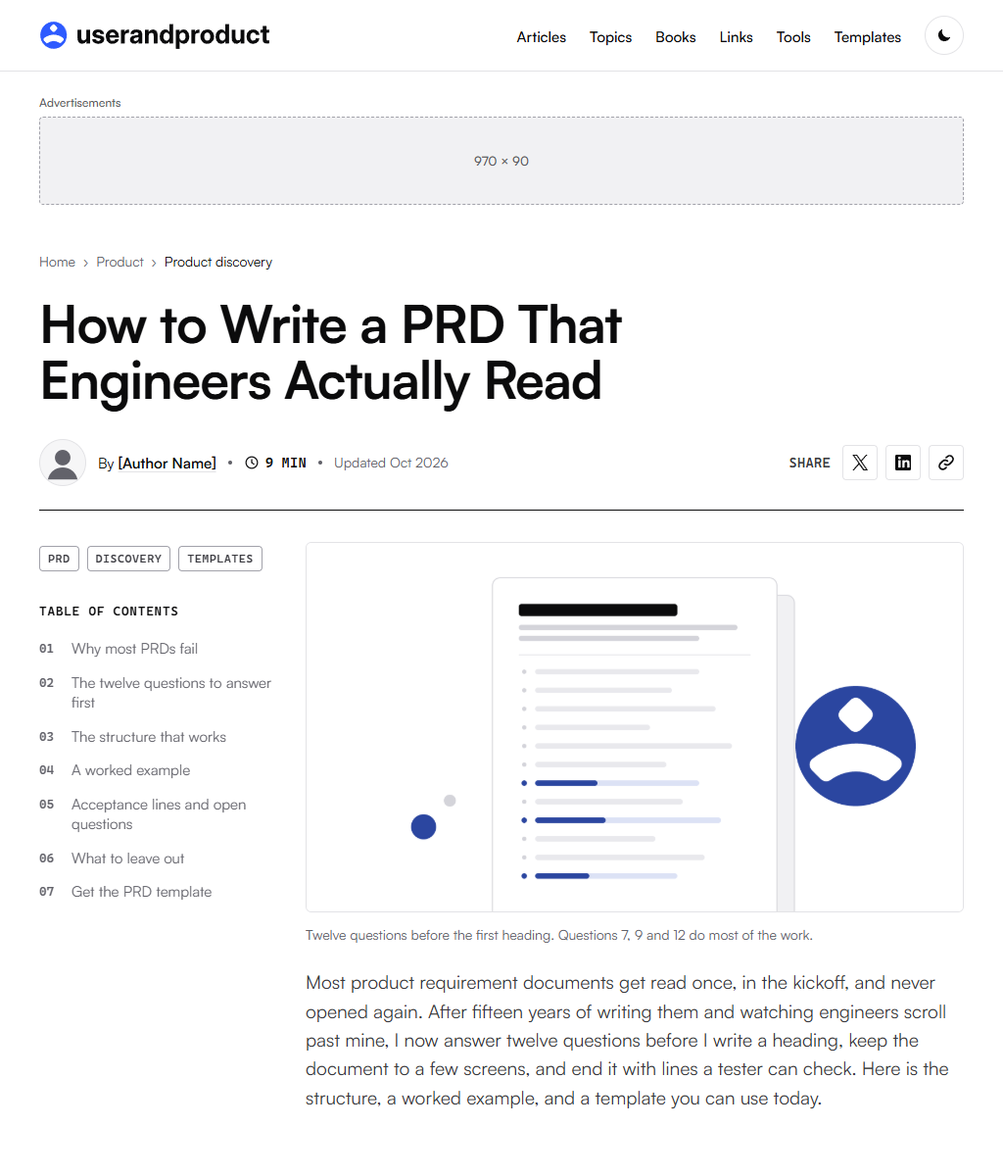
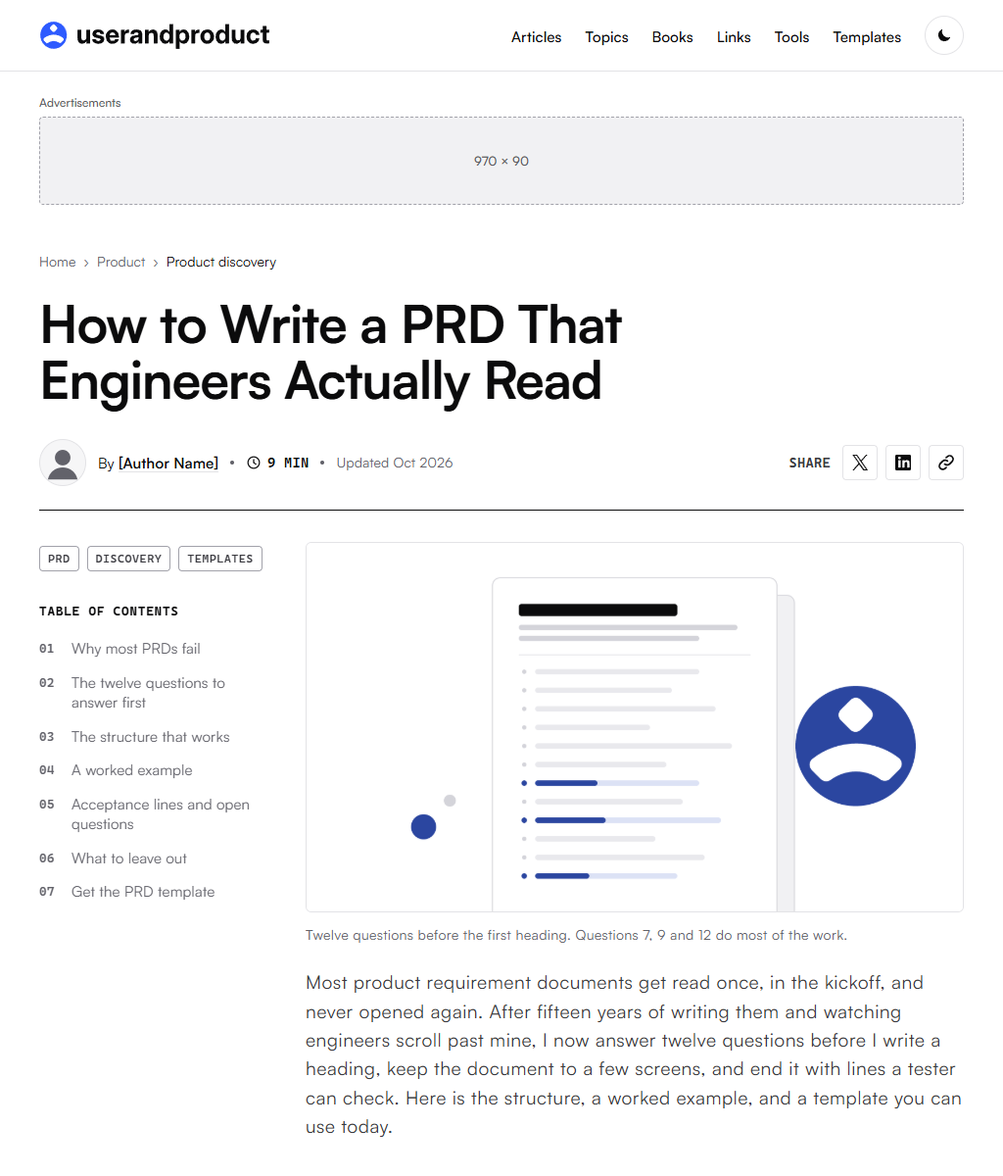
Mockup type: bolder small headings and labels, body letter spacing for Satoshi

diff --git a/research/mockups/mockup.css b/research/mockups/mockup.css
@@ -47,6 +47,15 @@
   --fs-meta:14px; --fs-ui:15px; --fs-body:18px; --fs-lead:21px;
   --fs-h3:21px; --fs-h2:30px; --fs-h1:52px;
   --lh-body:1.6;
+  /* weights: Satoshi is light for its size, so small headings and labels sit higher than large ones */
+  --fw-h1:700; --fw-h2:700;  /* large headings: unchanged */
+  --fw-h3:750;               /* h3, card and block titles, small h2s */
+  --fw-label:700;            /* section labels: contents, "More in", "Just published", footer heads */
+  /* tracking: Satoshi sets tight. Running text (paragraphs, list items, decks, captions) opens by .03em;
+     tested .01, .02, .03 and .05em at 18px: .05 reads spaced out and costs a line per paragraph, .03 opens it.
+     UI text at 13 to 15px takes a lighter .01em. Headings keep their own (negative) tracking. */
+  --tracking-body:.03em;
+  --tracking-ui:.01em;
 
   /* spacing, 4px base */
   --s1:4px; --s2:8px; --s3:12px; --s4:16px; --s5:24px; --s6:32px; --s7:48px; --s8:64px; --s9:96px;
@@ -82,7 +91,8 @@ img,svg{max-width:100%;height:auto}
 a{color:var(--signal);text-decoration-thickness:1px;text-underline-offset:.18em}
 a:hover{text-decoration-thickness:2px}
 :focus-visible{outline:2px solid var(--focus);outline-offset:3px;border-radius:2px}
-h1,h2,h3,h4{font-family:var(--font-display);font-weight:700;color:var(--ink);margin:0;text-wrap:balance}
+h1,h2,h3,h4{font-family:var(--font-display);font-weight:var(--fw-h3);color:var(--ink);margin:0;text-wrap:balance}
+h1{font-weight:var(--fw-h1)} h2{font-weight:var(--fw-h2)}
 p{margin:0}
 button,input{font:inherit;color:inherit}
 @media (prefers-reduced-motion:reduce){html{scroll-behavior:auto}*{transition:none!important;animation:none!important}}
@@ -106,7 +116,7 @@ button,input{font:inherit;color:inherit}
 @media (min-width:768px){.site-head .logo{--logo-w:236px}.site-head__in{min-height:72px;padding-top:16px;padding-bottom:16px}}
 .site-nav{margin-left:auto}
 .site-nav ul{display:flex;gap:var(--s5);list-style:none;margin:0;padding:0}
-.site-nav a{color:var(--ink);text-decoration:none;font:500 var(--fs-ui)/1 var(--font-ui)}
+.site-nav a{color:var(--ink);text-decoration:none;font:500 var(--fs-ui)/1 var(--font-ui);letter-spacing:var(--tracking-ui)}
 .site-nav a:hover{color:var(--signal)}
 .menu{margin-left:auto;position:relative}
 .menu summary{list-style:none;cursor:pointer;font:500 var(--fs-ui)/1 var(--font-ui);padding:12px 14px;border:1px solid var(--rule);border-radius:var(--radius)}
@@ -121,7 +131,7 @@ button,input{font:inherit;color:inherit}
 @media (min-width:900px){.menu{display:none}}
 
 /* ---------- Breadcrumb ---------- */
-.crumbs ol{display:flex;flex-wrap:wrap;gap:var(--s2);list-style:none;margin:0;padding:0;font:400 var(--fs-meta)/1.4 var(--font-ui);color:var(--ink-3)}
+.crumbs ol{display:flex;flex-wrap:wrap;gap:var(--s2);list-style:none;margin:0;padding:0;font:400 var(--fs-meta)/1.4 var(--font-ui);letter-spacing:var(--tracking-ui);color:var(--ink-3)}
 .crumbs li+li::before{content:"\203A";margin-right:var(--s2);color:var(--ink-3)}
 .crumbs a{color:var(--ink-3);text-decoration:none}
 .crumbs a:hover{color:var(--signal);text-decoration:underline}
@@ -138,10 +148,11 @@ button,input{font:inherit;color:inherit}
 /* ---------- Article prose ---------- */
 .prose>*+*{margin-top:1.1em}
 .prose h2{font-size:var(--fs-h2);line-height:1.18;letter-spacing:-.02em;margin-top:2.2em;scroll-margin-top:24px}
-.prose h3{font-weight:600;font-size:var(--fs-h3);line-height:1.3;letter-spacing:-.01em;margin-top:1.8em;scroll-margin-top:24px}
+.prose h3{font-weight:var(--fw-h3);font-size:var(--fs-h3);line-height:1.3;letter-spacing:-.01em;margin-top:1.8em;scroll-margin-top:24px}
 .prose h2+*,.prose h3+*{margin-top:.6em}
 .prose ul,.prose ol{padding-left:1.25em}
 .prose li+li{margin-top:.45em}
+.prose p,.prose li{letter-spacing:var(--tracking-body)}
 .prose li::marker{color:var(--signal)}
 .prose strong{font-weight:600}
 
@@ -151,7 +162,7 @@ button,input{font:inherit;color:inherit}
 
 .fig{margin:2em 0}
 .fig svg{display:block;width:100%;max-width:480px;height:auto;margin:0 auto;color:var(--ink)}
-.fig figcaption{margin-top:var(--s3);font:400 var(--fs-meta)/1.5 var(--font-ui);color:var(--ink-3)}
+.fig figcaption{margin-top:var(--s3);font:400 var(--fs-meta)/1.5 var(--font-ui);letter-spacing:var(--tracking-body);color:var(--ink-3)}
 .fig figcaption b{font-weight:600;color:var(--ink-2)}
 .fig .frame{padding:var(--s5) var(--s4);background:var(--panel);border-radius:var(--radius)}
 @media (max-width:599px){.fig .frame{padding:var(--s4) var(--s2)}}
@@ -164,7 +175,7 @@ button,input{font:inherit;color:inherit}
 
 .qtable-wrap{margin:1.6em 0}
 .qtable{width:100%;border-collapse:collapse;font:400 16px/1.45 var(--font-ui)}
-.qtable caption{caption-side:bottom;text-align:left;margin-top:var(--s3);font-size:var(--fs-meta);color:var(--ink-3)}
+.qtable caption{caption-side:bottom;text-align:left;margin-top:var(--s3);font-size:var(--fs-meta);letter-spacing:var(--tracking-body);color:var(--ink-3)}
 .qtable th{font-weight:600;font-size:var(--fs-meta);color:var(--ink-3);text-align:left;padding:0 var(--s3) var(--s2) 0;border-bottom:1px solid var(--rule-strong)}
 .qtable td{padding:var(--s3) var(--s3) var(--s3) 0;border-bottom:1px solid var(--rule);vertical-align:top}
 .qtable td:first-child{font-variant-numeric:tabular-nums;color:var(--signal);font-weight:600;width:2.2em}
@@ -180,7 +191,7 @@ button,input{font:inherit;color:inherit}
 }
 
 .excerpt{margin:1.6em 0;border:1px solid var(--rule);border-left:3px solid var(--signal);border-radius:0 var(--radius) var(--radius) 0;padding:var(--s5);font:400 16px/1.55 var(--font-ui);background:var(--paper)}
-.excerpt .ex-title{margin:0 0 var(--s3);font:600 17px/1.3 var(--font-display);color:var(--ink)}
+.excerpt .ex-title{margin:0 0 var(--s3);font:var(--fw-h3) 17px/1.3 var(--font-display);color:var(--ink)}
 .excerpt dl{margin:0;display:grid;grid-template-columns:8.5em 1fr;gap:var(--s3) var(--s4)}
 .excerpt dt{font-weight:600;color:var(--ink)}
 .excerpt dd{margin:0;color:var(--ink-2)}
@@ -204,7 +215,7 @@ button,input{font:inherit;color:inherit}
 .btn-row{display:flex;flex-wrap:wrap;gap:var(--s2)}
 .tpl__part .btn-row{margin-top:var(--s1)}
 .before{padding:var(--s3) var(--s4);border:1px dashed var(--ad-line);border-radius:var(--radius);font-size:var(--fs-meta);line-height:1.5;color:var(--ink-2)}
-.before h4{margin:0 0 var(--s1);font:600 var(--fs-meta)/1.4 var(--font-ui);color:var(--ink)}
+.before h4{margin:0 0 var(--s1);font:var(--fw-label) var(--fs-meta)/1.4 var(--font-ui);color:var(--ink)}
 .before ul{margin:0;padding-left:1.1em}
 .before li+li{margin-top:var(--s1)}
 .copy-status{font-size:var(--fs-meta);color:var(--signal);min-height:1.4em;margin:0}
@@ -212,13 +223,13 @@ button,input{font:inherit;color:inherit}
 /* ---------- Author box ---------- */
 .author{display:grid;grid-template-columns:64px 1fr;gap:var(--s4);margin-top:var(--s8);padding-top:var(--s5);border-top:1px solid var(--rule-strong);font:400 var(--fs-ui)/1.55 var(--font-ui)}
 .author .avatar{width:64px;height:64px}
-.author h2{font-size:20px;letter-spacing:-.01em}
+.author h2{font-size:20px;font-weight:var(--fw-h3);letter-spacing:-.01em}
 .author p{margin-top:var(--s2);color:var(--ink-2)}
 .author .links{display:flex;flex-wrap:wrap;gap:var(--s4);margin-top:var(--s3)}
 
 /* ---------- Related ---------- */
 .related{margin-top:var(--s8)}
-.related>h2{font-size:22px;letter-spacing:-.01em;padding-bottom:var(--s3);border-bottom:1px solid var(--rule-strong)}
+.related>h2{font-size:22px;font-weight:var(--fw-h3);letter-spacing:-.01em;padding-bottom:var(--s3);border-bottom:1px solid var(--rule-strong)}
 .related ul{list-style:none;margin:0;padding:0;display:grid;gap:0 var(--s6);grid-template-columns:1fr}
 @media (min-width:760px){.related ul{grid-template-columns:repeat(3,1fr)}}
 .related li{padding:var(--s4) 0;border-bottom:1px solid var(--rule)}
@@ -252,11 +263,11 @@ a.chip:hover{color:var(--signal);border-color:var(--signal)}
 
 /* ---------- Footer ---------- */
 .site-foot{margin-top:var(--s9);border-top:1px solid var(--rule);background:var(--paper)}
-.site-foot__in{max-width:var(--frame,1280px);margin:0 auto;padding:var(--s7) var(--gutter) var(--s6);display:grid;gap:var(--s6);grid-template-columns:1fr 1fr;font:400 var(--fs-ui)/1.5 var(--font-ui)}
+.site-foot__in{max-width:var(--frame,1280px);margin:0 auto;padding:var(--s7) var(--gutter) var(--s6);display:grid;gap:var(--s6);grid-template-columns:1fr 1fr;font:400 var(--fs-ui)/1.5 var(--font-ui);letter-spacing:var(--tracking-ui)}
 .site-foot__brand{grid-column:1/-1}
 @media (min-width:760px){.site-foot__in{grid-template-columns:2fr 1fr 1fr}.site-foot__brand{grid-column:auto}}
 .site-foot p{color:var(--ink-2);margin-top:var(--s3);max-width:34ch}
-.site-foot h2{font:600 var(--fs-meta)/1.4 var(--font-ui);color:var(--ink-3);margin:0 0 var(--s2)}
+.site-foot h2{font:var(--fw-label) var(--fs-meta)/1.4 var(--font-ui);color:var(--ink-3);margin:0 0 var(--s2)}
 .site-foot ul{list-style:none;margin:0;padding:0}
 .site-foot li{padding:3px 0}
 .site-foot a{color:var(--ink);text-decoration:none}

diff --git a/research/mockups/option-1/css/mockup.css b/research/mockups/option-1/css/mockup.css
@@ -46,6 +46,15 @@
   --fs-meta:14px; --fs-ui:15px; --fs-body:18px; --fs-lead:21px;
   --fs-h3:21px; --fs-h2:30px; --fs-h1:52px;
   --lh-body:1.6;
+  /* weights: Satoshi is light for its size, so small headings and labels sit higher than large ones */
+  --fw-h1:700; --fw-h2:700;  /* large headings: unchanged */
+  --fw-h3:750;               /* h3, card and block titles, small h2s */
+  --fw-label:700;            /* section labels: contents, "More in", "Just published", footer heads */
+  /* tracking: Satoshi sets tight. Running text (paragraphs, list items, decks, captions) opens by .03em;
+     tested .01, .02, .03 and .05em at 18px: .05 reads spaced out and costs a line per paragraph, .03 opens it.
+     UI text at 13 to 15px takes a lighter .01em. Headings keep their own (negative) tracking. */
+  --tracking-body:.03em;
+  --tracking-ui:.01em;
 
   /* spacing, 4px base */
   --s1:4px; --s2:8px; --s3:12px; --s4:16px; --s5:24px; --s6:32px; --s7:48px; --s8:64px; --s9:96px;
@@ -81,7 +90,8 @@ img,svg{max-width:100%;height:auto}
 a{color:var(--signal);text-decoration-thickness:1px;text-underline-offset:.18em}
 a:hover{text-decoration-thickness:2px}
 :focus-visible{outline:2px solid var(--focus);outline-offset:3px;border-radius:2px}
-h1,h2,h3,h4{font-family:var(--font-display);font-weight:700;color:var(--ink);margin:0;text-wrap:balance}
+h1,h2,h3,h4{font-family:var(--font-display);font-weight:var(--fw-h3);color:var(--ink);margin:0;text-wrap:balance}
+h1{font-weight:var(--fw-h1)} h2{font-weight:var(--fw-h2)}
 p{margin:0}
 button,input{font:inherit;color:inherit}
 @media (prefers-reduced-motion:reduce){html{scroll-behavior:auto}*{transition:none!important;animation:none!important}}
@@ -105,7 +115,7 @@ button,input{font:inherit;color:inherit}
 @media (min-width:768px){.site-head .logo{--logo-w:236px}.site-head__in{min-height:72px;padding-top:16px;padding-bottom:16px}}
 .site-nav{margin-left:auto}
 .site-nav ul{display:flex;gap:var(--s5);list-style:none;margin:0;padding:0}
-.site-nav a{color:var(--ink);text-decoration:none;font:500 var(--fs-ui)/1 var(--font-ui)}
+.site-nav a{color:var(--ink);text-decoration:none;font:500 var(--fs-ui)/1 var(--font-ui);letter-spacing:var(--tracking-ui)}
 .site-nav a:hover{color:var(--signal)}
 .menu{margin-left:auto;position:relative}
 .menu summary{list-style:none;cursor:pointer;font:500 var(--fs-ui)/1 var(--font-ui);padding:12px 14px;border:1px solid var(--rule);border-radius:var(--radius)}
@@ -120,7 +130,7 @@ button,input{font:inherit;color:inherit}
 @media (min-width:900px){.menu{display:none}}
 
 /* ---------- Breadcrumb ---------- */
-.crumbs ol{display:flex;flex-wrap:wrap;gap:var(--s2);list-style:none;margin:0;padding:0;font:400 var(--fs-meta)/1.4 var(--font-ui);color:var(--ink-3)}
+.crumbs ol{display:flex;flex-wrap:wrap;gap:var(--s2);list-style:none;margin:0;padding:0;font:400 var(--fs-meta)/1.4 var(--font-ui);letter-spacing:var(--tracking-ui);color:var(--ink-3)}
 .crumbs li+li::before{content:"\203A";margin-right:var(--s2);color:var(--ink-3)}
 .crumbs a{color:var(--ink-3);text-decoration:none}
 .crumbs a:hover{color:var(--signal);text-decoration:underline}
@@ -137,10 +147,11 @@ button,input{font:inherit;color:inherit}
 /* ---------- Article prose ---------- */
 .prose>*+*{margin-top:1.1em}
 .prose h2{font-size:var(--fs-h2);line-height:1.18;letter-spacing:-.02em;margin-top:2.2em;scroll-margin-top:24px}
-.prose h3{font-weight:600;font-size:var(--fs-h3);line-height:1.3;letter-spacing:-.01em;margin-top:1.8em;scroll-margin-top:24px}
+.prose h3{font-weight:var(--fw-h3);font-size:var(--fs-h3);line-height:1.3;letter-spacing:-.01em;margin-top:1.8em;scroll-margin-top:24px}
 .prose h2+*,.prose h3+*{margin-top:.6em}
 .prose ul,.prose ol{padding-left:1.25em}
 .prose li+li{margin-top:.45em}
+.prose p,.prose li{letter-spacing:var(--tracking-body)}
 .prose li::marker{color:var(--signal)}
 .prose strong{font-weight:600}
 
@@ -150,7 +161,7 @@ button,input{font:inherit;color:inherit}
 
 .fig{margin:2em 0}
 .fig svg{display:block;width:100%;max-width:480px;height:auto;margin:0 auto;color:var(--ink)}
-.fig figcaption{margin-top:var(--s3);font:400 var(--fs-meta)/1.5 var(--font-ui);color:var(--ink-3)}
+.fig figcaption{margin-top:var(--s3);font:400 var(--fs-meta)/1.5 var(--font-ui);letter-spacing:var(--tracking-body);color:var(--ink-3)}
 .fig figcaption b{font-weight:600;color:var(--ink-2)}
 .fig .frame{padding:var(--s5) var(--s4);background:var(--panel);border-radius:var(--radius)}
 @media (max-width:599px){.fig .frame{padding:var(--s4) var(--s2)}}
@@ -163,7 +174,7 @@ button,input{font:inherit;color:inherit}
 
 .qtable-wrap{margin:1.6em 0}
 .qtable{width:100%;border-collapse:collapse;font:400 16px/1.45 var(--font-ui)}
-.qtable caption{caption-side:bottom;text-align:left;margin-top:var(--s3);font-size:var(--fs-meta);color:var(--ink-3)}
+.qtable caption{caption-side:bottom;text-align:left;margin-top:var(--s3);font-size:var(--fs-meta);letter-spacing:var(--tracking-body);color:var(--ink-3)}
 .qtable th{font-weight:600;font-size:var(--fs-meta);color:var(--ink-3);text-align:left;padding:0 var(--s3) var(--s2) 0;border-bottom:1px solid var(--rule-strong)}
 .qtable td{padding:var(--s3) var(--s3) var(--s3) 0;border-bottom:1px solid var(--rule);vertical-align:top}
 .qtable td:first-child{font-variant-numeric:tabular-nums;color:var(--signal);font-weight:600;width:2.2em}
@@ -179,7 +190,7 @@ button,input{font:inherit;color:inherit}
 }
 
 .excerpt{margin:1.6em 0;border:1px solid var(--rule);border-left:3px solid var(--signal);border-radius:0 var(--radius) var(--radius) 0;padding:var(--s5);font:400 16px/1.55 var(--font-ui);background:var(--paper)}
-.excerpt .ex-title{margin:0 0 var(--s3);font:600 17px/1.3 var(--font-display);color:var(--ink)}
+.excerpt .ex-title{margin:0 0 var(--s3);font:var(--fw-h3) 17px/1.3 var(--font-display);color:var(--ink)}
 .excerpt dl{margin:0;display:grid;grid-template-columns:8.5em 1fr;gap:var(--s3) var(--s4)}
 .excerpt dt{font-weight:600;color:var(--ink)}
 .excerpt dd{margin:0;color:var(--ink-2)}
@@ -203,7 +214,7 @@ button,input{font:inherit;color:inherit}
 .btn-row{display:flex;flex-wrap:wrap;gap:var(--s2)}
 .tpl__part .btn-row{margin-top:var(--s1)}
 .before{padding:var(--s3) var(--s4);border:1px dashed var(--ad-line);border-radius:var(--radius);font-size:var(--fs-meta);line-height:1.5;color:var(--ink-2)}
-.before h4{margin:0 0 var(--s1);font:600 var(--fs-meta)/1.4 var(--font-ui);color:var(--ink)}
+.before h4{margin:0 0 var(--s1);font:var(--fw-label) var(--fs-meta)/1.4 var(--font-ui);color:var(--ink)}
 .before ul{margin:0;padding-left:1.1em}
 .before li+li{margin-top:var(--s1)}
 .copy-status{font-size:var(--fs-meta);color:var(--signal);min-height:1.4em;margin:0}
@@ -211,13 +222,13 @@ button,input{font:inherit;color:inherit}
 /* ---------- Author box ---------- */
 .author{display:grid;grid-template-columns:64px 1fr;gap:var(--s4);margin-top:var(--s8);padding-top:var(--s5);border-top:1px solid var(--rule-strong);font:400 var(--fs-ui)/1.55 var(--font-ui)}
 .author .avatar{width:64px;height:64px}
-.author h2{font-size:20px;letter-spacing:-.01em}
+.author h2{font-size:20px;font-weight:var(--fw-h3);letter-spacing:-.01em}
 .author p{margin-top:var(--s2);color:var(--ink-2)}
 .author .links{display:flex;flex-wrap:wrap;gap:var(--s4);margin-top:var(--s3)}
 
 /* ---------- Related ---------- */
 .related{margin-top:var(--s8)}
-.related>h2{font-size:22px;letter-spacing:-.01em;padding-bottom:var(--s3);border-bottom:1px solid var(--rule-strong)}
+.related>h2{font-size:22px;font-weight:var(--fw-h3);letter-spacing:-.01em;padding-bottom:var(--s3);border-bottom:1px solid var(--rule-strong)}
 .related ul{list-style:none;margin:0;padding:0;display:grid;gap:0 var(--s6);grid-template-columns:1fr}
 @media (min-width:760px){.related ul{grid-template-columns:repeat(3,1fr)}}
 .related li{padding:var(--s4) 0;border-bottom:1px solid var(--rule)}
@@ -251,11 +262,11 @@ a.chip:hover{color:var(--signal);border-color:var(--signal)}
 
 /* ---------- Footer ---------- */
 .site-foot{margin-top:var(--s9);border-top:1px solid var(--rule);background:var(--paper)}
-.site-foot__in{max-width:var(--frame,1280px);margin:0 auto;padding:var(--s7) var(--gutter) var(--s6);display:grid;gap:var(--s6);grid-template-columns:1fr 1fr;font:400 var(--fs-ui)/1.5 var(--font-ui)}
+.site-foot__in{max-width:var(--frame,1280px);margin:0 auto;padding:var(--s7) var(--gutter) var(--s6);display:grid;gap:var(--s6);grid-template-columns:1fr 1fr;font:400 var(--fs-ui)/1.5 var(--font-ui);letter-spacing:var(--tracking-ui)}
 .site-foot__brand{grid-column:1/-1}
 @media (min-width:760px){.site-foot__in{grid-template-columns:2fr 1fr 1fr}.site-foot__brand{grid-column:auto}}
 .site-foot p{color:var(--ink-2);margin-top:var(--s3);max-width:34ch}
-.site-foot h2{font:600 var(--fs-meta)/1.4 var(--font-ui);color:var(--ink-3);margin:0 0 var(--s2)}
+.site-foot h2{font:var(--fw-label) var(--fs-meta)/1.4 var(--font-ui);color:var(--ink-3);margin:0 0 var(--s2)}
 .site-foot ul{list-style:none;margin:0;padding:0}
 .site-foot li{padding:3px 0}
 .site-foot a{color:var(--ink);text-decoration:none}

diff --git a/research/mockups/option-1/css/article.css b/research/mockups/option-1/css/article.css
@@ -8,7 +8,7 @@
 .page{margin:0 auto;padding:0 var(--gutter)}
 .cat-link{display:inline-block;font:600 var(--fs-ui)/1.3 var(--font-ui);color:var(--signal);text-decoration:none}
 .cat-link:hover{text-decoration:underline}
-.deck{font:400 var(--fs-lead)/1.5 var(--font-ui);color:var(--ink-2);text-wrap:pretty}
+.deck{font:400 var(--fs-lead)/1.5 var(--font-ui);letter-spacing:var(--tracking-body);color:var(--ink-2);text-wrap:pretty}
 .hero h1{font-size:var(--fs-h1);line-height:1.06;letter-spacing:-.03em}
 .hero>*+*{margin-top:var(--s4)}
 /* running text keeps a 65 to 75 character measure; figures, table and template use the full column */
@@ -17,9 +17,9 @@
 .hero .byline{margin-top:var(--s5)}
 
 /* table of contents (sidebar and inline) */
-.toc h2{font:600 var(--fs-meta)/1.4 var(--font-ui);color:var(--ink-3);margin:0 0 var(--s3)}
+.toc h2{font:var(--fw-label) var(--fs-meta)/1.4 var(--font-ui);color:var(--ink-3);margin:0 0 var(--s3)}
 .toc ol{list-style:none;margin:0;padding:0}
-.toc li a{position:relative;display:block;padding:7px 0 7px 22px;color:var(--ink-3);text-decoration:none;font:400 var(--fs-ui)/1.35 var(--font-ui)}
+.toc li a{position:relative;display:block;padding:7px 0 7px 22px;color:var(--ink-3);text-decoration:none;font:400 var(--fs-ui)/1.35 var(--font-ui);letter-spacing:var(--tracking-ui)}
 .toc li a:hover{color:var(--ink)}
 .toc li a::before{content:"";position:absolute;left:4px;top:13px;width:7px;height:7px;border-radius:1px;transform:rotate(45deg);background:var(--rule)}
 .toc li a[aria-current]{color:var(--ink);font-weight:600}
@@ -47,7 +47,7 @@
 .va .top h1{font-size:clamp(34px,calc(15.6px + 3.7vw),60px);line-height:1.08;letter-spacing:-.02em;text-wrap:balance}
 /* .chip and .chips live in ../mockup.css (shared with the home page) */
 .byrow{display:flex;flex-wrap:wrap;align-items:center;justify-content:space-between;gap:var(--s4) var(--s5);margin-top:var(--s6)!important}
-.by{display:flex;flex-wrap:wrap;align-items:center;gap:var(--s2) var(--s3);font:400 var(--fs-ui)/1.4 var(--font-ui);color:var(--ink)}
+.by{display:flex;flex-wrap:wrap;align-items:center;gap:var(--s2) var(--s3);font:400 var(--fs-ui)/1.4 var(--font-ui);letter-spacing:var(--tracking-ui);color:var(--ink)}
 .by .avatar{width:48px;height:48px}
 .by a{color:var(--ink);font-weight:600;text-decoration:underline;text-decoration-color:var(--rule);text-underline-offset:.2em}
 .by a:hover{color:var(--signal);text-decoration-color:currentColor}
@@ -59,7 +59,7 @@
 /* copy confirmation: positioned below the row, so it never moves anything */
 .share-toast{position:absolute;right:0;top:calc(100% + 6px);font:500 13px/1.3 var(--font-ui);color:var(--signal);white-space:nowrap;pointer-events:none}
 .share-toast:empty{display:none}
-.share__label{font:500 14px/1 var(--mono);text-transform:uppercase;letter-spacing:.02em;color:var(--ink-2);margin-right:var(--s1)}
+.share__label{font:var(--fw-label) 14px/1 var(--mono);text-transform:uppercase;letter-spacing:.02em;color:var(--ink-2);margin-right:var(--s1)}
 .icon-btn{display:inline-grid;place-items:center;width:36px;height:36px;border:1px solid var(--rule);border-radius:4px;background:transparent;color:var(--ink);cursor:pointer;padding:0}
 .icon-btn svg{width:20px;height:20px}
 .icon-btn:hover{color:var(--signal);border-color:var(--signal)}
@@ -75,7 +75,7 @@
   background:transparent;color:var(--ink);font:500 var(--fs-ui)/1 var(--font-ui);cursor:pointer}
 .util-btn svg{width:18px;height:18px}
 .util-btn:hover{border-color:var(--signal);color:var(--signal)}
-.toc--num h2{font:500 13px/1.4 var(--mono);letter-spacing:.06em;text-transform:uppercase;color:var(--ink)}
+.toc--num h2{font:var(--fw-label) 13px/1.4 var(--mono);letter-spacing:.06em;text-transform:uppercase;color:var(--ink)}
 .toc--num li a{display:grid;grid-template-columns:2.2em 1fr;padding:7px 0;line-height:1.35}
 .toc--num li a::before{display:none}
 .toc--num .n{font:500 13px/1.6 var(--mono);color:inherit}
@@ -129,12 +129,12 @@
   .va .rail{grid-column:3}
   .va .m-only,.va .toc-m{display:none}
 }
-.rail-list h2{font:500 12px/1.4 var(--mono);letter-spacing:.06em;text-transform:uppercase;color:var(--ink-3);margin:0;padding-bottom:var(--s2);border-bottom:1px solid var(--rule)}
+.rail-list h2{font:var(--fw-label) 12px/1.4 var(--mono);letter-spacing:.06em;text-transform:uppercase;color:var(--ink-3);margin:0;padding-bottom:var(--s2);border-bottom:1px solid var(--rule)}
 .rail-list ul{list-style:none;margin:0;padding:0}
 .rail-list li{border-bottom:1px solid var(--rule)}
 /* compact list: 64px 16:9 thumbnail left of a meta-size title (72px from 1024, on the 300px rail and after the body) */
 .rail-list--compact a{display:grid;grid-template-columns:64px minmax(0,1fr);gap:10px;align-items:start;padding:10px 0;
-  color:var(--ink);text-decoration:none;font:500 13px/1.3 var(--font-ui)}
+  color:var(--ink);text-decoration:none;font:600 13px/1.3 var(--font-ui);letter-spacing:var(--tracking-ui)}
 .rail-list--compact img{display:block;width:100%;height:auto;aspect-ratio:16/9;border-radius:3px;margin-top:2px}
 .rail-list--compact a:hover{color:var(--signal)}
 .rail-list--compact a:hover .rail-t{text-decoration:underline;text-underline-offset:.18em}
@@ -147,7 +147,7 @@
 .va .after>.tpl{margin-top:var(--s8)}
 /* Just published (was Related), Tiger Data style: label on a hairline, three large cards, thumbnail, chips, title */
 .rel2{margin-top:var(--s8)}
-.rel2__h{font:500 13px/1.4 var(--mono);letter-spacing:.06em;text-transform:uppercase;color:var(--ink);padding-bottom:var(--s3);border-bottom:1px solid var(--rule-strong)}
+.rel2__h{font:var(--fw-label) 13px/1.4 var(--mono);letter-spacing:.06em;text-transform:uppercase;color:var(--ink);padding-bottom:var(--s3);border-bottom:1px solid var(--rule-strong)}
 .rel2 ul{list-style:none;margin:var(--s5) 0 0;padding:0;display:grid;gap:var(--s6);grid-template-columns:1fr}
 @media (min-width:760px){.rel2 ul{grid-template-columns:repeat(3,1fr)}}
 .rel2 a{display:flex;flex-direction:column;gap:var(--s3);color:var(--ink);text-decoration:none}
@@ -175,7 +175,7 @@
 .vb .hero .byline{padding-top:var(--s4);border-top:1px solid var(--rule);max-width:760px}
 .vb .col{max-width:calc(760px + 2 * var(--gutter));margin:0 auto;padding:0 var(--gutter)}
 .vb .intoc{margin-top:var(--s7);padding:var(--s4) 0;border-top:1px solid var(--rule-strong);border-bottom:1px solid var(--rule)}
-.vb .intoc h2{font:600 var(--fs-meta)/1.4 var(--font-ui);color:var(--ink-3);margin:0 0 var(--s2)}
+.vb .intoc h2{font:var(--fw-label) var(--fs-meta)/1.4 var(--font-ui);color:var(--ink-3);margin:0 0 var(--s2)}
 .vb .intoc ol{margin:0;padding-left:1.4em;columns:2 280px;column-gap:var(--s6);font:400 var(--fs-ui)/1.5 var(--font-ui)}
 .vb .intoc li{padding:3px 0;break-inside:avoid}
 .vb .intoc li::marker{color:var(--signal);font-weight:600}
@@ -221,7 +221,7 @@
 /* featured image: 16:9, size reserved by width/height and aspect-ratio */
 .hero-fig{margin:var(--s6) 0 0}
 .hero-fig img,.rel-thumb img{display:block;width:100%;height:auto;aspect-ratio:16/9;border:1px solid var(--rule);border-radius:var(--radius);background:var(--panel)}
-.hero-fig figcaption{margin-top:var(--s3);font:400 var(--fs-meta)/1.5 var(--font-ui);color:var(--ink-3)}
+.hero-fig figcaption{margin-top:var(--s3);font:400 var(--fs-meta)/1.5 var(--font-ui);letter-spacing:var(--tracking-body);color:var(--ink-3)}
 .vb .hero-fig{margin-top:var(--s6)}
 .rel-thumb{display:block;margin-bottom:var(--s3);line-height:0}
 .vc .related li{display:grid;grid-template-columns:minmax(0,180px) 1fr;gap:var(--s4);align-items:start}

diff --git a/research/mockups/option-1/css/home.css b/research/mockups/option-1/css/home.css
@@ -17,7 +17,7 @@
 @media (min-width:900px){.lead__link{grid-template-columns:minmax(0,1.5fr) minmax(0,1fr);column-gap:var(--s6);align-items:center}}
 .lead__text{display:flex;flex-direction:column;align-items:flex-start;gap:var(--s3)}
 .lead__title{font:700 clamp(26px,calc(16px + 1.8vw),40px)/1.1 var(--font-display);letter-spacing:-.025em;text-wrap:balance}
-.lead__deck{font:400 var(--fs-lead)/1.5 var(--font-ui);color:var(--ink-2);max-width:32em}
+.lead__deck{font:400 var(--fs-lead)/1.5 var(--font-ui);letter-spacing:var(--tracking-body);color:var(--ink-2);max-width:32em}
 .lead img,.card img{display:block;width:100%;height:auto;aspect-ratio:16/9;border:1px solid var(--rule);border-radius:var(--radius);background:var(--panel)}
 
 /* one column on phones, two from 680px, three from 1100px: each cell stays at least 300px wide, so the
@@ -46,7 +46,7 @@
 .sec__ln{fill:none;stroke:var(--ink);stroke-width:2;stroke-linecap:round;stroke-linejoin:round}
 .sec__ln--sig{stroke:var(--signal);stroke-width:2.6}
 .sec__name{font-size:clamp(26px,calc(18px + 1vw),32px);line-height:1.05;letter-spacing:-.025em}
-.sec__line{font:400 var(--fs-ui)/1.5 var(--font-ui);color:var(--ink-2);max-width:26em}
+.sec__line{font:400 var(--fs-ui)/1.5 var(--font-ui);letter-spacing:var(--tracking-ui);color:var(--ink-2);max-width:26em}
 .sec__open{margin-top:auto;padding-top:var(--s3);font:500 12px/1 var(--font-mono);letter-spacing:.06em;text-transform:uppercase;color:var(--signal)}
 .sec__open::after{content:"\2192";display:inline-block;margin-left:.4em;transition:transform .15s ease}
 .sec:hover{border-top-color:var(--signal)}

diff --git a/research/discussion/context.md b/research/discussion/context.md
@@ -906,3 +906,10 @@ Committed (10 Oct): illustration generator with no accent caps (any element kind
 4.5:1 labels still enforced; adjacency notes only); rules foundation-only; SEO image names in both rule sets.
 Owner (10 Oct): use the Satoshi family from Fontshare for the mockups instead of the current type (Inter text and Fraunces). Being self-hosted under research/mockups/fonts/satoshi/ with its licence and switched in both mockup.css files; the logo wordmark (Inter Display Bold) and the figure generator's Inter unchanged for now.
 Owner: the Satoshi change is a plain font swap in the CSS only; logo, images and generators untouched; no scale retuning yet.
+Satoshi applied and committed (10 Oct): both mockup.css files load Satoshi Variable (roman and italic, 300 to 900) and
+map --font-display, --font-ui and --font-body to it; Fraunces and Inter rules left unused; preloads updated. The ITF
+Free Font License 2.0 forbids redistributing the files (including via repositories), so the font files are
+git-ignored and only the README is tracked; the GitHub repo is public. Builder's tuning notes: Satoshi's x-height is
+about 11 percent smaller than Inter's and it sets about 8 percent narrower, so body 18 px reads like 16 px (19 to 20
+px body and a 22 px deck would restore the look); small labels at 14 to 15 px look light. Owner to review the swap.
+Owner (Satoshi swap): small headings bolder (700 to 800); body paragraphs get a little letter spacing (owner liked about 0.05em in the inspector; to be set within the system). Being applied in the mockup CSS.
